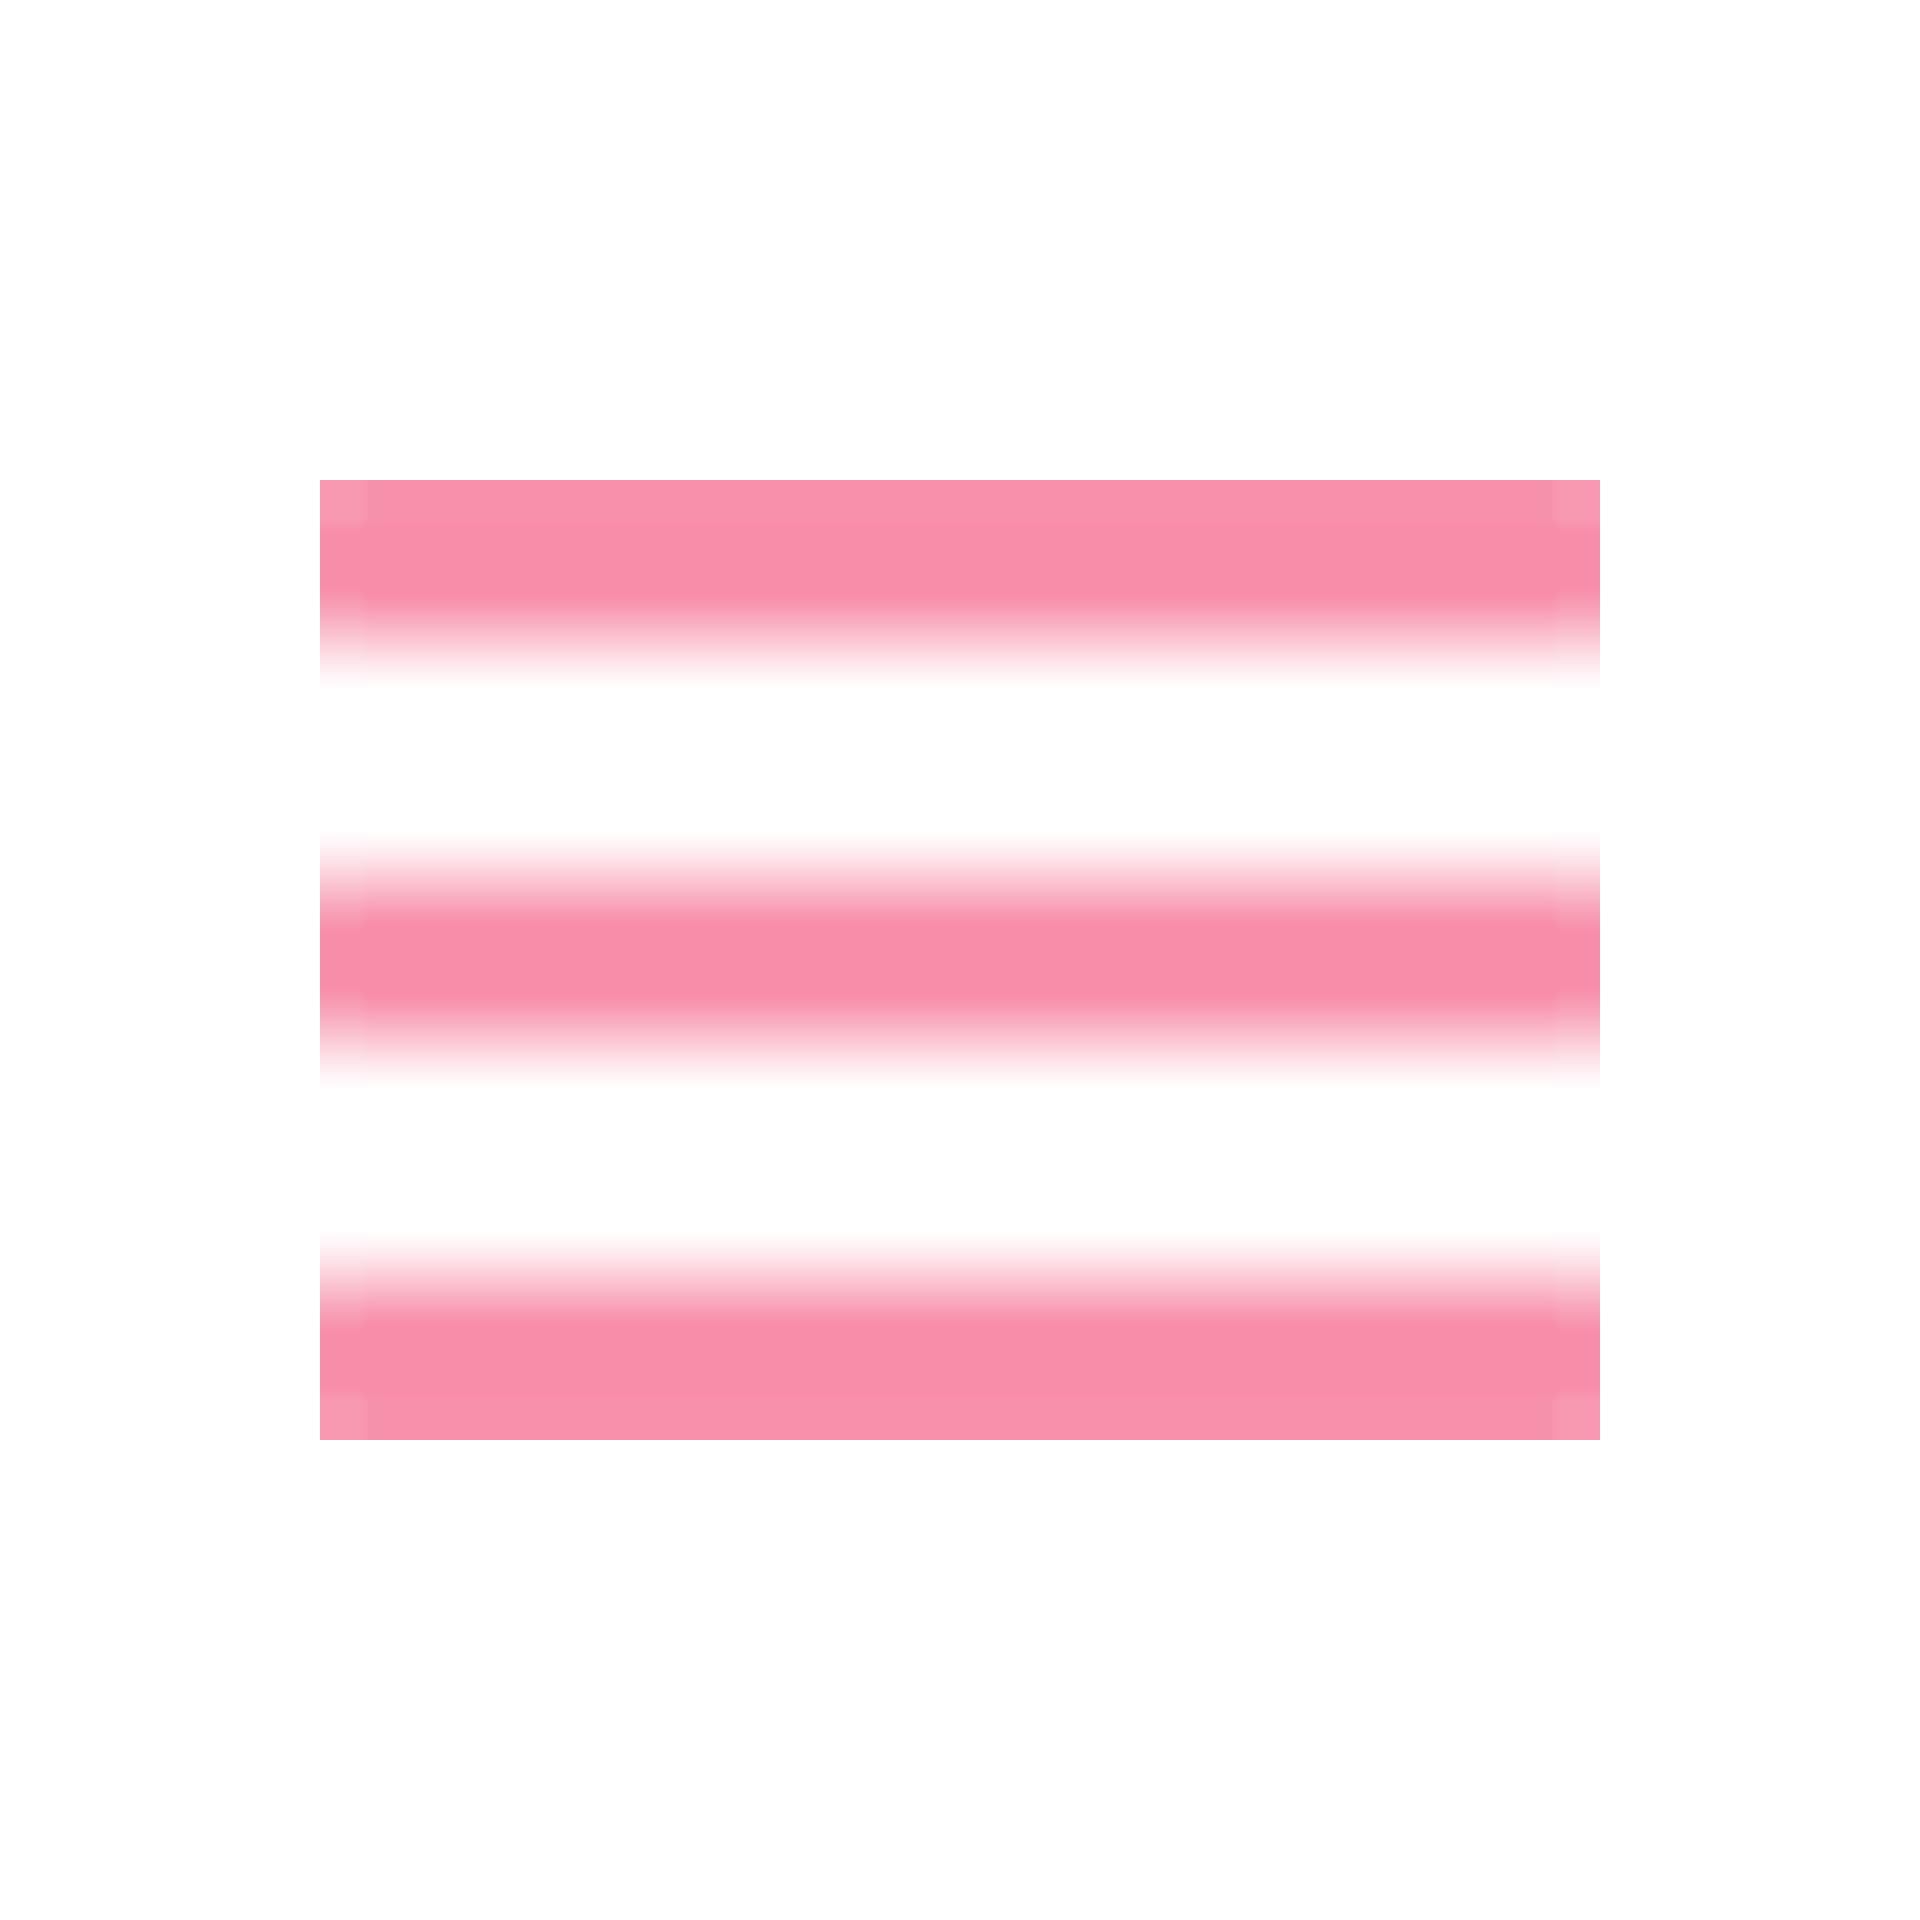
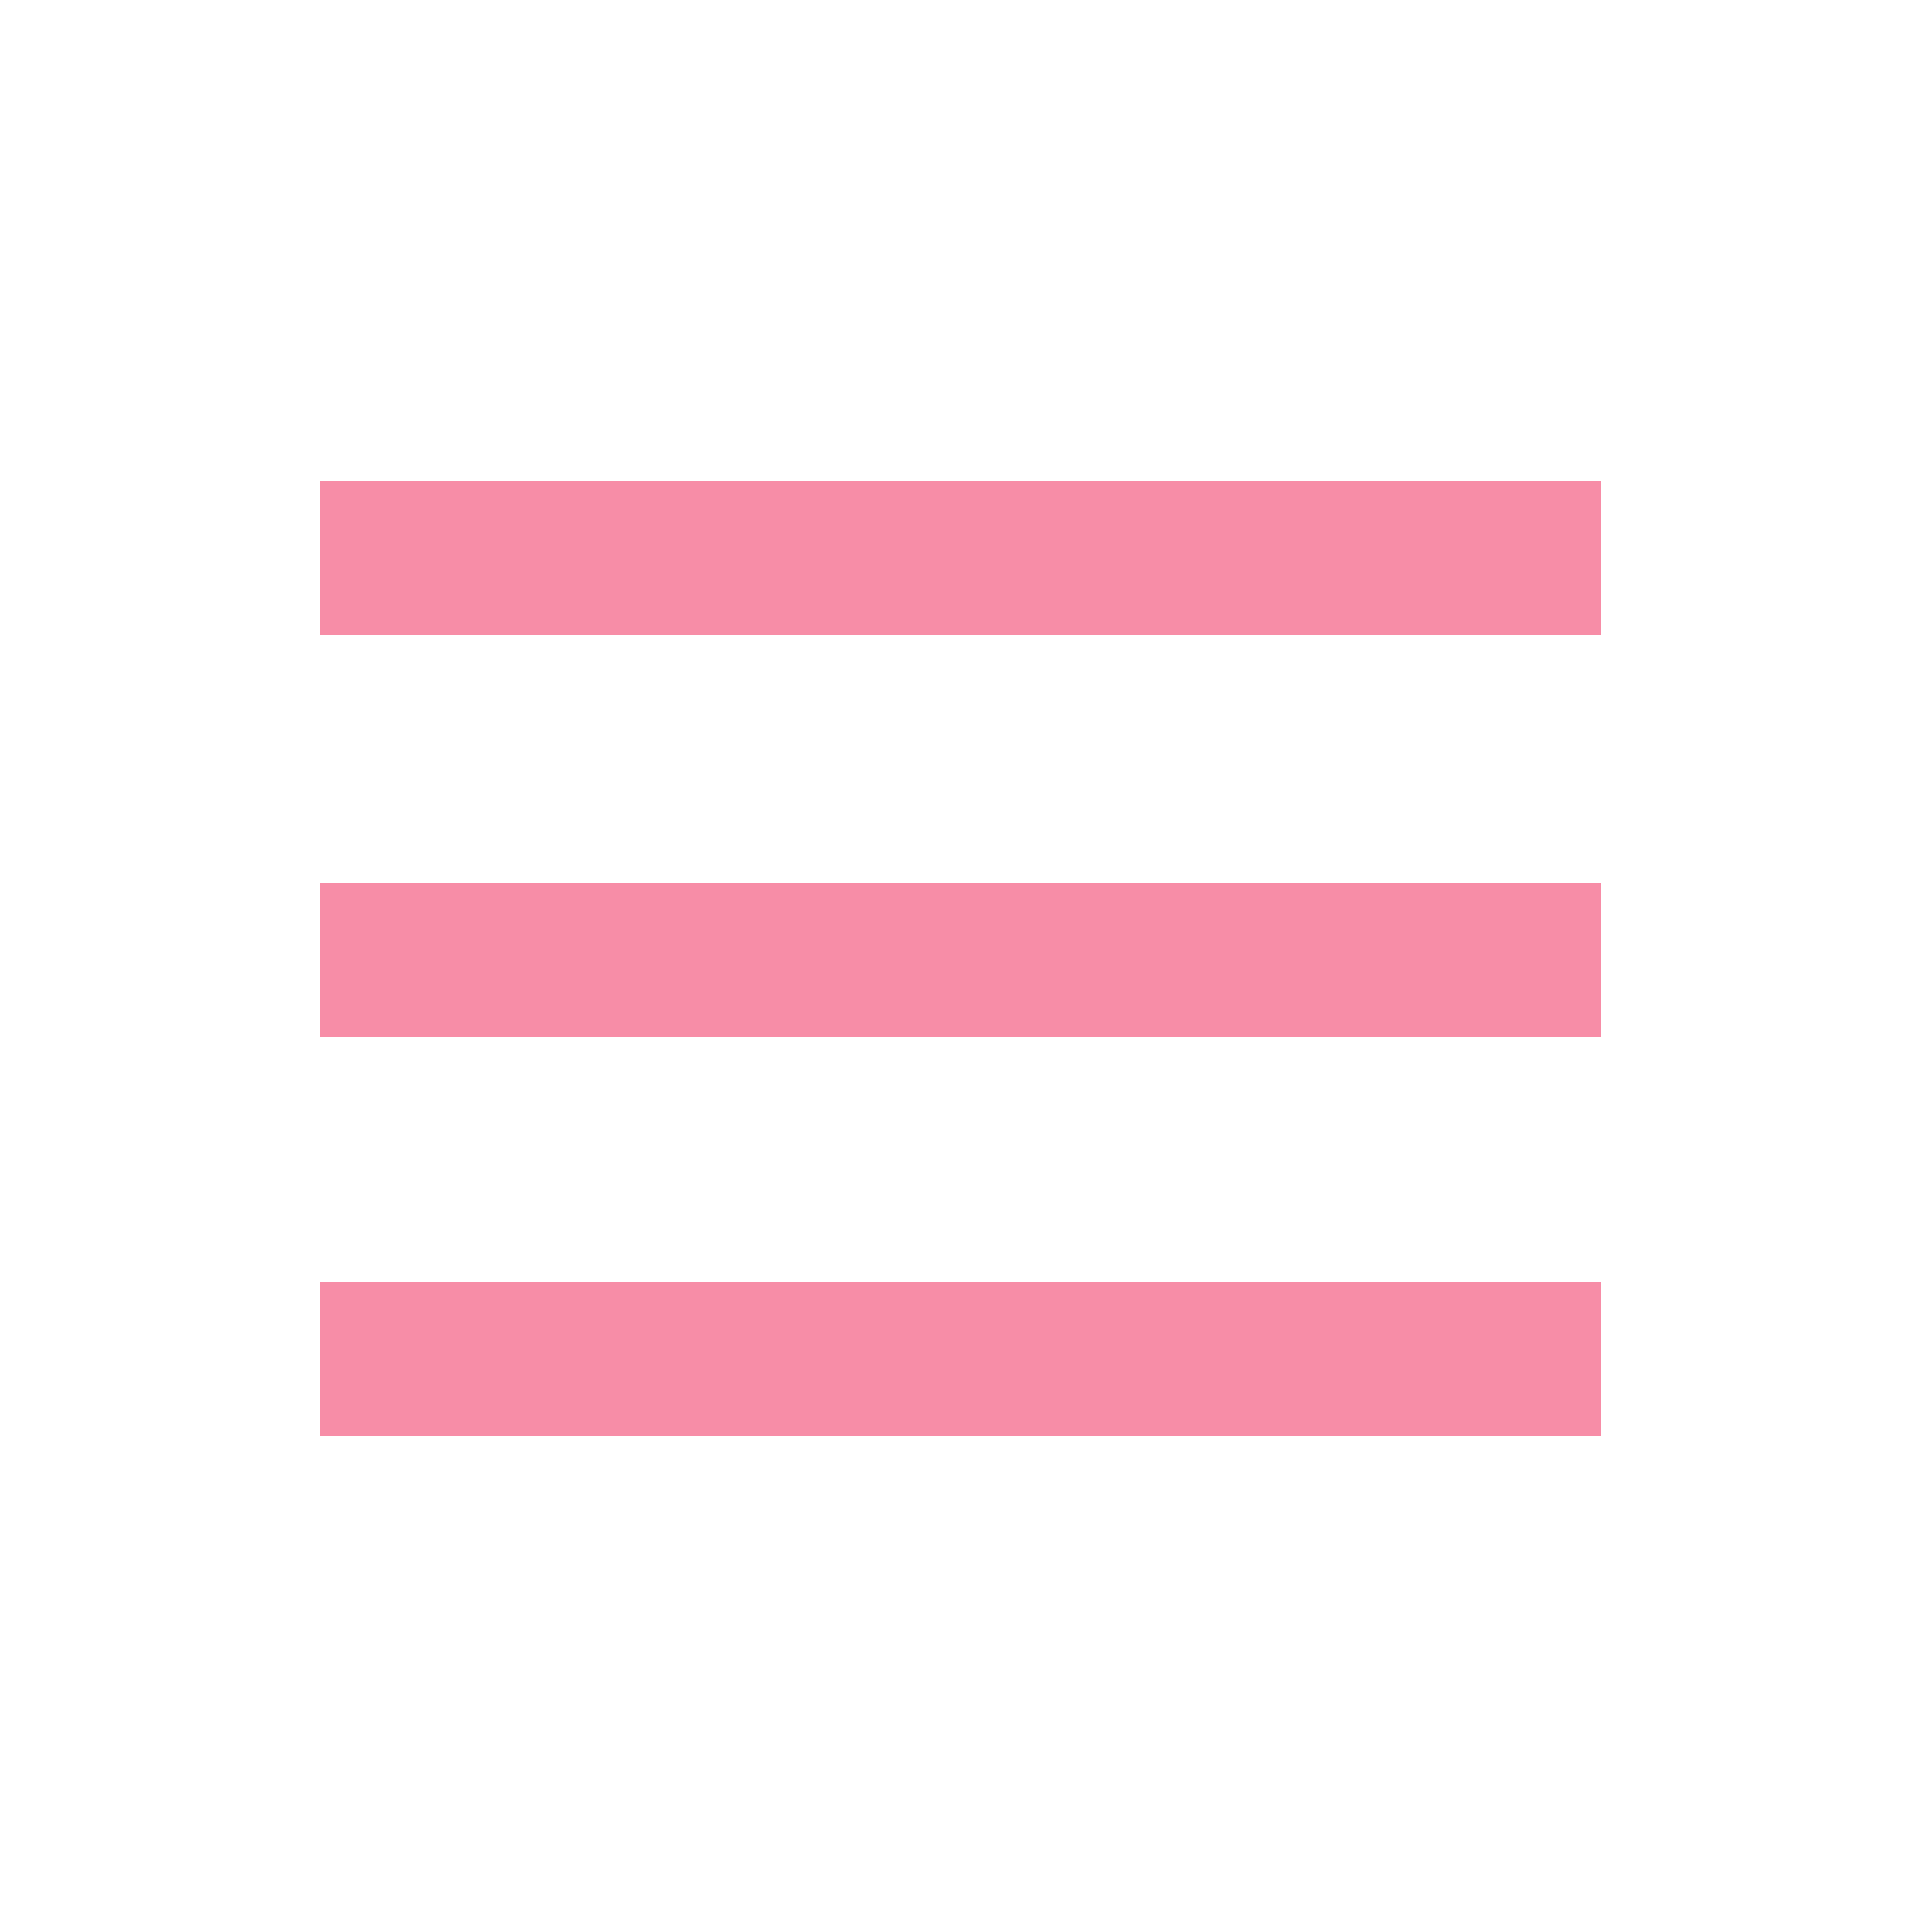
updated css

Changed region(s): [[0.1562, 0.4375, 0.8438, 0.5625], [0.1562, 0.6562, 0.8438, 0.6875], [0.1562, 0.3125, 0.8438, 0.3438]]

diff --git a/privacypolicystyles.css b/privacypolicystyles.css
@@ -570,7 +570,7 @@ footer .info ul li:hover a i
         height: 50px;
         background-image: url(menu.png);
         background-position: center;
-        background-size: 6vw;
+        background-size: 10vw;
         background-repeat: no-repeat;
         cursor: pointer;
         z-index: 1001;
@@ -582,8 +582,9 @@ footer .info ul li:hover a i
         height: 50px;
         background-repeat: no-repeat;
         background-position: center;
-        background-size: 6vw;
+        background-size: 10vw;
         cursor: pointer;
+        z-index: 1001;
     }
 
     /* Banner Sections */

diff --git a/styles.css b/styles.css
@@ -750,7 +750,7 @@ footer .info ul li:hover a i
         position: relative;
         width: 50px;
         height: 50px;
-        background-image: url(menu_1920_small.png);
+        background-image: url(menu.png);
         background-position: center;
         background-size: 10vw;
         background-repeat: no-repeat;
@@ -759,7 +759,7 @@ footer .info ul li:hover a i
     }
     .toggleMenu.active
     {
-        background-image: url(close_1920_small.png);
+        background-image: url(close.png);
         width: 50px;
         height: 50px;
         background-repeat: no-repeat;
